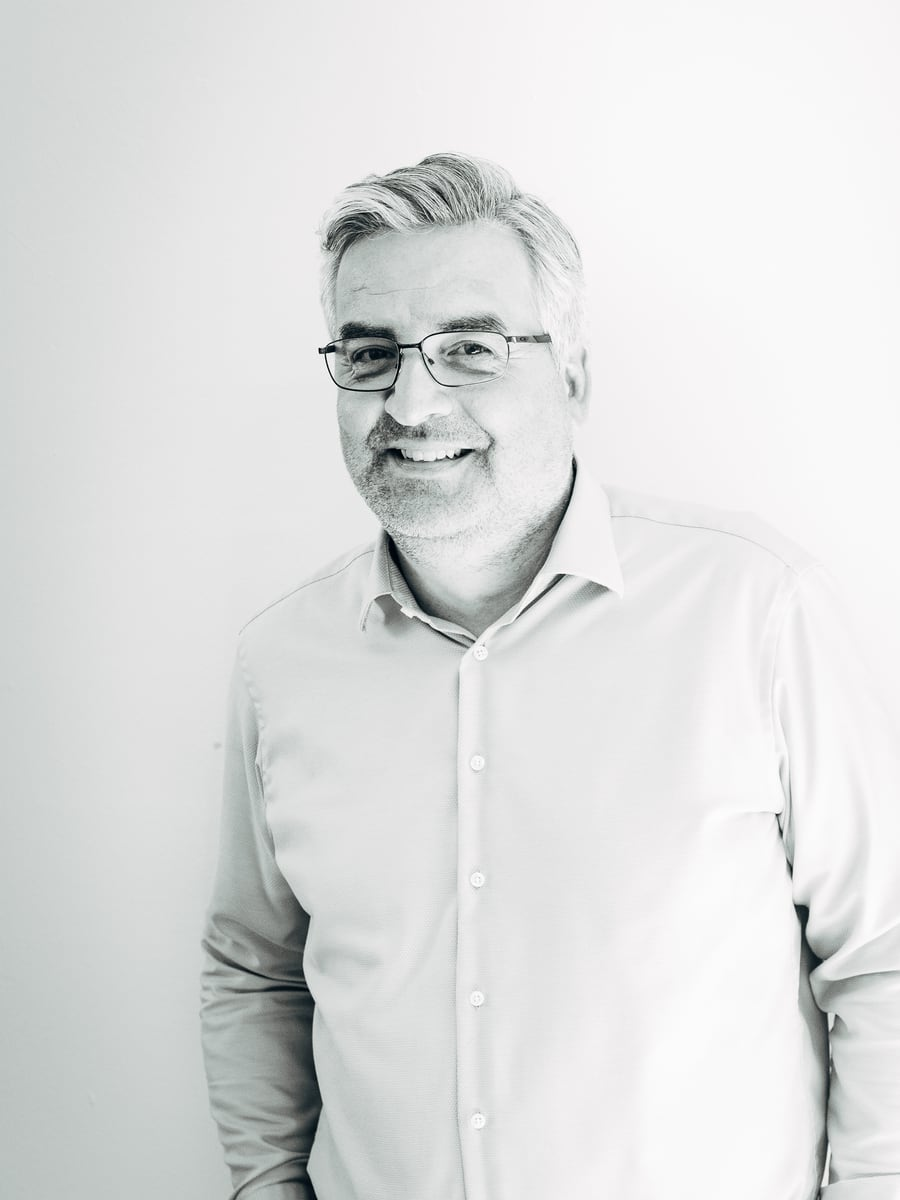
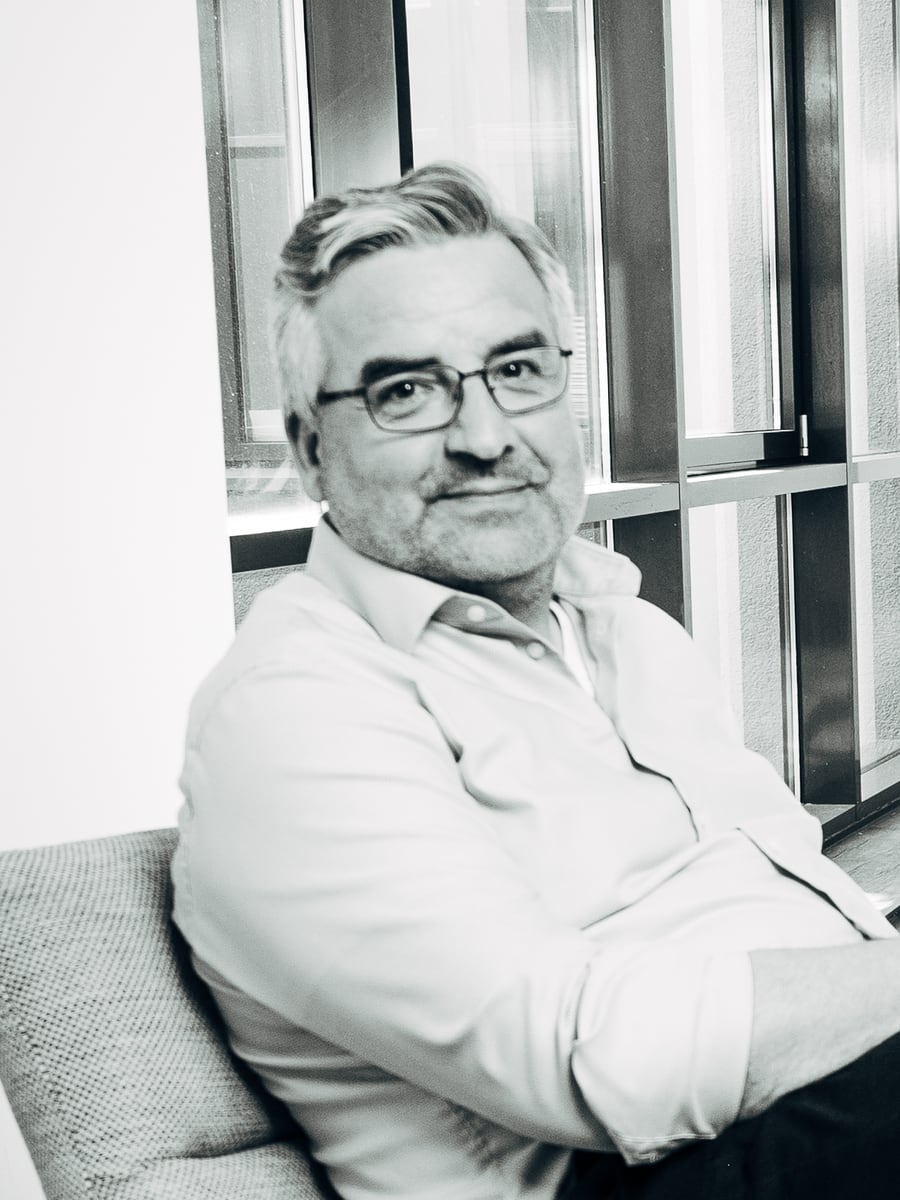
Preloader-Scrollsperre, Browser-Fixes, Team-Section + Michael-Gaul-Portrait
Preloader: Scrollen während des Intros gesperrt — man landet immer im Hero.
- Race-Fix: SmoothScroll liest data-intro und startet Lenis GESTOPPT (IntroOverlay
  konnte vor SmoothScroll mounten → window.__lenis?.stop() war ein No-Op und das
  frisch erzeugte Lenis lief weiter); Freigabe auf „banijay:introdone"
- IntroOverlay sperrt zusätzlich wheel/touchmove/Scroll-Tasten (passive:false)
- Beim Freigeben hart scrollTo(0,0) + lenis.scrollTo(0, immediate); Unmount löst
  die Sperre sauber

Browser-Kompatibilität:
- CompanyCard: fehlendes -webkit-backdrop-filter ergänzt (Safari)
- SiteHeader: Fullscreen-Menü 100vh → 100dvh (mobile Safari/Chrome schnitt die
  unteren Buttons hinter der Adressleiste ab). Übrige 100vh bewusst unangetastet —
  6 Dateien sind gepinnt und die Home hat passende -100vh-Overlaps.

Team-Section (Mobile):
- Headline-Reveal triggert auf der Mobile-Headline statt am root — auf /about
  feuerte es sonst nicht, „Unser Team" fehlte dort ganz
- aspect-ratio-Fix: das <img> trieb als Flex-Kind (min-height:auto) die
  Containerhöhe auf seine natürliche Bildproportion → aspect-ratio wurde ignoriert.
  Bild jetzt absolut positioniert → alle Kacheln exakt 4/5 (Natalis Feld war
  dadurch niedriger als die anderen)

Michael Gaul: neues Portrait (weiter Loft-Shot, Kopf ~8,5% der Bildhöhe, Person
links außen) auf Kopf ~29% rangezoomt und mittig gesetzt, 900x1200 wie die anderen.

CHANGELOG + README auf den Stand der 19./20.07.-Mobile-Strecke gebracht.

diff --git a/src/components/cinematic/algarve/IntroOverlay.tsx b/src/components/cinematic/algarve/IntroOverlay.tsx
@@ -29,6 +29,26 @@ export function IntroOverlay() {
 
   useGSAP(
     () => {
+      // HARTE SCROLL-SPERRE während des Preloaders (Wolfram 19.07.): overflow:hidden +
+      // lenis.stop() allein reichten nicht — man konnte während des Intros scrollen und die
+      // Seite ratterte im Hintergrund an die Zielposition. Darum zusätzlich die nativen
+      // Scroll-Auslöser abfangen (wheel/touchmove/Scroll-Tasten), passive:false wegen
+      // preventDefault. Wird in cleanup() wieder gelöst.
+      const preventScroll = (e: Event) => e.preventDefault();
+      const preventScrollKeys = (e: KeyboardEvent) => {
+        if (["ArrowUp", "ArrowDown", "PageUp", "PageDown", "Home", "End", " "].includes(e.key)) e.preventDefault();
+      };
+      const lockScroll = () => {
+        window.addEventListener("wheel", preventScroll, { passive: false });
+        window.addEventListener("touchmove", preventScroll, { passive: false });
+        window.addEventListener("keydown", preventScrollKeys);
+      };
+      const unlockScroll = () => {
+        window.removeEventListener("wheel", preventScroll);
+        window.removeEventListener("touchmove", preventScroll);
+        window.removeEventListener("keydown", preventScrollKeys);
+      };
+
       const finish = () => {
         (window as { __introDone?: boolean }).__introDone = true;
         window.dispatchEvent(new Event("banijay:introdone"));
@@ -41,6 +61,13 @@ export function IntroOverlay() {
         finish();
         delete document.documentElement.dataset.intro;
         document.documentElement.style.overflow = "";
+        unlockScroll();
+        // Immer im Hero starten: während der Sperre kann sich nichts verschoben haben,
+        // aber wir setzen hart auf 0, bevor Lenis wieder übernimmt.
+        window.scrollTo(0, 0);
+        (window as { __lenis?: { start: () => void; scrollTo: (t: number, o?: object) => void } }).__lenis?.scrollTo(0, {
+          immediate: true,
+        });
         (window as { __lenis?: { start: () => void } }).__lenis?.start();
         setDone(true);
         // Nach dem Entsperren neu vermessen — der gepinnte Hero (radialer Aufbau)
@@ -63,6 +90,9 @@ export function IntroOverlay() {
 
       document.documentElement.dataset.intro = "1";
       document.documentElement.style.overflow = "hidden";
+      lockScroll();
+      // Lenis kann hier noch nicht existieren (SmoothScroll mountet ggf. später) — darum
+      // liest SmoothScroll zusätzlich das data-intro-Flag und startet erst auf „introdone".
       (window as { __lenis?: { stop: () => void } }).__lenis?.stop();
       window.scrollTo(0, 0);
 
@@ -97,6 +127,14 @@ export function IntroOverlay() {
         // wird NICHT mehr hier ausgelöst, sondern erst in cleanup (onComplete), wenn das
         // Overlay komplett weg ist (Wolfram 15.07.).
         .to(bg.current, { autoAlpha: 0, duration: 0.7, ease: "power1.inOut" }, 6.15);
+
+      // Sicherheitsnetz: wird die Komponente mitten im Intro unmountet (Routenwechsel),
+      // darf die Scroll-Sperre nicht hängen bleiben.
+      return () => {
+        unlockScroll();
+        delete document.documentElement.dataset.intro;
+        document.documentElement.style.overflow = "";
+      };
     },
     { scope: root },
   );

diff --git a/src/components/cinematic/algarve/Founders.tsx b/src/components/cinematic/algarve/Founders.tsx
@@ -215,18 +215,27 @@ export function AlgarveFounders({
           gsap.set(words, { yPercent: 0 });
           return;
         }
+        // Mobile-Headline (in mTeam) vs. Desktop-Headline (in der gepinnten Bühne):
+        // - Desktop: TRIGGER = die SECTION, NICHT die Headline (Wolfram 16.07.): die
+        //   gepinnte Headline wird position:fixed → ihre eigene „top 88%"-Marke kann sie
+        //   nach dem Pin-Start nie mehr erreichen. Die Section behält ihre Layout-Position.
+        // - Mobile (Wolfram 19.07.): die Mobile-Headline ist bis zum End-Pin (bottom bottom)
+        //   im normalen Fluss. Am `root` zu triggern war auf der About-Seite unzuverlässig
+        //   (Section sitzt dort anders / Pin-Spacer) → das Reveal blieb aus, die Überschrift
+        //   fehlte. Darum triggert die Mobile-Headline auf SICH SELBST → feuert verlässlich,
+        //   sobald sie ins Bild scrollt.
+        const isMobileHead = !!mTeam.current?.contains(head);
         gsap.set(words, { yPercent: 118 });
         gsap.to(words, {
           yPercent: 0,
           ease: "power3.out",
           duration: 0.9,
           stagger: 0.12,
-          // TRIGGER = die SECTION, nicht die Headline selbst (Wolfram 16.07.): Die
-          // Desktop-Headline sitzt in der gepinnten Bühne. Ein gepinntes Element wird
-          // position:fixed — es wandert ab dem Pin-Start nicht mehr mit dem Scroll, seine
-          // eigene „top 88%"-Marke kann es danach nie mehr erreichen. Die Section
-          // dagegen behält ihre Layout-Position über die ganze Pin-Strecke.
-          scrollTrigger: { trigger: root.current, start: "top 88%", once: true },
+          scrollTrigger: {
+            trigger: isMobileHead ? head : root.current,
+            start: isMobileHead ? "top 92%" : "top 88%",
+            once: true,
+          },
         });
       });
     },
@@ -355,14 +364,19 @@ export function AlgarveFounders({
                 data-team-mtile
                 className={`flex flex-col gap-3 ${feature ? "col-span-2" : ""}`}
               >
+                {/* FIX (Wolfram 19.07.): das Bild ABSOLUT positioniert — sonst trieb es als
+                    Flex-Kind (min-height:auto) die Containerhöhe auf seine natürliche
+                    Bildproportion und die aspect-ratio wurde ignoriert (Natalis 3:4-Bild
+                    ergab so ein niedrigeres Feld als die 0.665-Portraits). Jetzt bestimmt die
+                    aspect-ratio die Höhe → ALLE Kacheln exakt 4/5, Leader nur voller Breite. */}
                 <div
-                  className="overflow-clip"
-                  style={{ aspectRatio: feature ? "16 / 10" : "4 / 5", background: "rgba(255,255,255,0.08)" }}
+                  className="relative overflow-clip"
+                  style={{ aspectRatio: "4 / 5", background: "rgba(255,255,255,0.08)" }}
                 >
                   <img
                     src={p.img}
                     alt={p.name}
-                    className="h-full w-full object-cover"
+                    className="absolute inset-0 h-full w-full object-cover"
                     style={{ filter: "grayscale(1)", objectPosition: focus(p.img) }}
                   />
                 </div>

diff --git a/src/components/layout/SiteHeader.tsx b/src/components/layout/SiteHeader.tsx
@@ -411,14 +411,18 @@ export function SiteHeader() {
       {/* Fullscreen-Overlay */}
       <div
         className="fixed inset-0 z-[200] overflow-hidden transition-[height] duration-500 ease-in-out"
-        style={{ height: open ? "100vh" : 0, background: CORAL }}
+        // 100dvh statt 100vh (Wolfram 19.07., Browser-Opt): das Fullscreen-Menü ist KEIN
+        // Scroll-Pin → dvh ist hier gefahrlos und füllt auf mobile Safari/Chrome exakt den
+        // sichtbaren Viewport (mit 100vh ragte es hinter die Adressleiste → untere Buttons
+        // abgeschnitten / Sprung beim Ein-/Ausblenden der Leiste).
+        style={{ height: open ? "100dvh" : 0, background: CORAL }}
       >
         {/* Derselbe 6vw-Rand wie die Nav-Bar (Wolfram 17.07.): so bilden Logo, Nav-Wörter,
             Social-Buttons und Podcast-Widget eine gemeinsame Grid-Spalte mit symmetrischem
             Rand links/rechts. Vorher 2vw fix → Nav-Wörter klebten rechts, Social/Podcast
             links an der Kante. Desktop bleibt 2vw. */}
         <div className="px-[2vw] max-[767px]:!px-[6vw]">
-          <div className="flex min-h-screen w-full flex-row-reverse items-start justify-between overflow-hidden pb-[3vw] pt-[9vw] max-[767px]:flex-col max-[767px]:gap-14 max-[767px]:overflow-auto max-[767px]:pb-20 max-[767px]:pt-28">
+          <div className="flex min-h-[100dvh] w-full flex-row-reverse items-start justify-between overflow-hidden pb-[3vw] pt-[9vw] max-[767px]:flex-col max-[767px]:gap-14 max-[767px]:overflow-auto max-[767px]:pb-20 max-[767px]:pt-28">
             {/* Große Links — rechtsbündig (auch auf Mobile; dort full-width, damit
                 items-end wirklich an den rechten Viewport-Rand schiebt). */}
             <nav

diff --git a/src/components/cinematic/SmoothScroll.tsx b/src/components/cinematic/SmoothScroll.tsx
@@ -25,6 +25,20 @@ export function SmoothScroll() {
     gsap.ticker.add(raf);
     gsap.ticker.lagSmoothing(0);
 
+    // INTRO-SPERRE (Wolfram 19.07.): Läuft der Preloader noch, muss Lenis GESTOPPT starten.
+    // Der IntroOverlay ruft zwar window.__lenis.stop() — mountet er aber VOR dieser
+    // Komponente, existiert __lenis dort noch nicht (No-Op) und das frische Lenis lief
+    // munter weiter: man konnte während des Intros scrollen und die Seite ratterte im
+    // Hintergrund an die Zielposition. Darum hier das data-intro-Flag lesen und erst auf
+    // „banijay:introdone" wieder freigeben.
+    const introActive = document.documentElement.dataset.intro === "1";
+    if (introActive) lenis.stop();
+    const onIntroDone = () => {
+      lenis.scrollTo(0, { immediate: true });
+      lenis.start();
+    };
+    window.addEventListener("banijay:introdone", onIntroDone);
+
     // Expliziter, SYNCHRONER ScrollTrigger.refresh() bei Breiten-Resize (Wolfram 17.07.).
     // Grund: mehrere Module sind gepinnt; beim Pinnen fixiert ScrollTrigger Breite/Position
     // des Elements auf die Messung zum Pin-Zeitpunkt. Ändert sich danach die Viewport-
@@ -47,6 +61,7 @@ export function SmoothScroll() {
 
     return () => {
       window.removeEventListener("resize", onResize);
+      window.removeEventListener("banijay:introdone", onIntroDone);
       clearTimeout(resizeTimer);
       gsap.ticker.remove(raf);
       lenis.destroy();

diff --git a/src/components/CompanyCard.tsx b/src/components/CompanyCard.tsx
@@ -37,7 +37,7 @@ export function CompanyCard({ company }: { company: Company }) {
         {/* Tier-Label */}
         <span
           className="absolute left-3 top-3 rounded-full px-2.5 py-1 text-[0.62rem] font-bold uppercase tracking-[0.12em]"
-          style={{ background: "rgba(0,0,0,0.32)", color: "#f8f7f3", backdropFilter: "blur(6px)" }}
+          style={{ background: "rgba(0,0,0,0.32)", color: "#f8f7f3", backdropFilter: "blur(6px)", WebkitBackdropFilter: "blur(6px)" }}
         >
           {company.tier}
         </span>

diff --git a/CHANGELOG.md b/CHANGELOG.md
@@ -5,6 +5,117 @@ Alle nennenswerten Änderungen an diesem Projekt. Format angelehnt an
 
 ## [redesign-v2] — Branch (Preview) — 2026-07-16
 
+### Preloader: Scroll während des Intros gesperrt (19.07.)
+- Beim Erst-Load bzw. beim Klick auf Home ratterte die Seite HINTER dem laufenden
+  Preloader schon an die Zielposition, wenn man währenddessen scrollte — man landete nicht
+  im Hero.
+- **Ursache (Race):** `IntroOverlay` rief `window.__lenis?.stop()` — mountet es aber VOR
+  `SmoothScroll`, existiert `__lenis` dort noch nicht → Optional-Chaining = No-Op, und
+  `SmoothScroll` erzeugte danach ein **laufendes** Lenis. `overflow:hidden` allein hält
+  Lenis nicht auf.
+- **Fix, drei Schichten:**
+  1. `SmoothScroll.tsx` liest beim Erzeugen das `data-intro`-Flag und startet Lenis
+     **gestoppt**; Freigabe erst auf `banijay:introdone`. Damit sind BEIDE Mount-Reihenfolgen
+     abgedeckt (mountet SmoothScroll zuerst, greift weiterhin `IntroOverlay`s `.stop()`).
+  2. `IntroOverlay.tsx` sperrt zusätzlich die nativen Auslöser: `wheel`, `touchmove` und die
+     Scroll-Tasten (↑↓, Bild auf/ab, Pos1/Ende, Leertaste) mit `passive:false` + `preventDefault`.
+  3. Beim Freigeben hart `scrollTo(0,0)` **und** `lenis.scrollTo(0, immediate)` → Start
+     garantiert im Hero. Unmount mitten im Intro löst die Sperre sauber (kein Hängenbleiben).
+- Verifiziert (Mechanismus isoliert): Lenis gestoppt + 10× Mausrad → `scrollY` bleibt **0**;
+  nach `start()` → 3940. Das echte Intro-Fenster ist im Preview-Pane nicht reproduzierbar
+  (GSAP `lagSmoothing(0)` + gedrosseltes rAF spielt die 7-s-Timeline in einem Tick ab) →
+  Endabnahme im echten Browser.
+
+### Browser-Kompatibilität: Safari-Prefix + Menü-Overlay auf dvh (19.07.)
+- `CompanyCard.tsx`: fehlendes `-webkit-backdrop-filter` ergänzt (Tier-Label-Milchglas
+  blurrte in Safari nicht). Alle übrigen `backdrop-filter`/`mask-image`-Stellen waren
+  bereits korrekt geprefixt.
+- `SiteHeader.tsx`: Fullscreen-Menü von `100vh` auf **`100dvh`** (plus `min-h-[100dvh]`).
+  Auf mobile Safari/Chrome ragte das Overlay hinter die Adressleiste → untere
+  Instagram/LinkedIn/Podcast-Buttons abgeschnitten bzw. Sprung beim Ein-/Ausblenden. Das
+  Menü ist **kein** Scroll-Pin → `dvh` ist hier gefahrlos.
+- **Bewusst NICHT angefasst:** die übrigen 55 `100vh`. 6 der Dateien sind gepinnt
+  (AlgarveHome, EditorialStickyScene, EcosystemSection, CompaniesScroller,
+  CareerRoleScroller, Founders) und die Home nutzt `-100vh`-Overlaps, die exakt mit den
+  gepinnten `100vh`-Höhen zusammenpassen. Blindes `dvh` würde die Scroll-Choreografie
+  brechen → separater, section-weiser Job mit Gerätetest.
+
+### Ökosystem: eigenständige Mobile-Ansicht (19.07.)
+- Die gepinnte Desktop-Orbit-Grafik mit Chips auf den Bahnen funktionierte auf 9:16 nicht.
+  Mobile ist jetzt ein **eigener Pfad** (per Breakpoint gegated, Desktop unverändert):
+  **symmetrisches Atom** oben (gleich lange Bahnen, Tilts gleichmäßig ~alle 30° verteilt →
+  keine dominante Achse, quadratisch zentriert), darunter die Rubriken als
+  **Akkordeonliste** mit Trennlinien; immer nur eine offen.
+- **Kein Pin/Scrub auf Mobile** — stattdessen einmaliges Reveal (`once`) plus gescrubbter
+  **Parallax-Drift** der Grafik. Vorher blendete das Reveal beim Weiterscrollen wieder aus
+  (`toggleActions … reverse`) → wirkte „geblockt", Grafik verschwand.
+- **Fix `useGSAP revertOnUpdate: true`:** ohne das blieb der beim SSR-Erstrender (isMobile
+  startet false) erzeugte Desktop-**Pin** auf Mobile aktiv (Section `fixed`, Pin-Spacer) —
+  betrifft auch echte Handys, da SSR immer als Desktop startet.
+- `page.tsx`: der `-100vh`-Statement-Overlap gilt nur noch ab `md` — mobil schimmerte sonst
+  das Statement-Wording hinter Grafik + Liste durch.
+
+### Companies-Bento Mobile: Zwischenheadline + platzsparender Filter (19.07.)
+- **Neue Mobile-Zwischenheadline „40+ / COMPANIES & / LABELS"** (Dreizeiler) über der
+  Company-Video-Section — sie ersetzt die Desktop-Swap-Phase des Ökosystems, die mobil aus ist.
+  Gestaltung 1:1 wie „About Banijay": gescrubbte Konvergenz (obere Zeile von −15vh, untere
+  von +15vh, scrub 0.8) + einblendender Sternenstaub, uppercase, `letter-spacing -0.02em`.
+- **Bug dabei gefunden:** `line-height: 112%` stand auf dem `h2` ohne eigene `font-size`
+  (Default 16px) → 18px-Zeilenboxen, die 56px-„40+"-Glyphen liefen über und überlagerten die
+  Caption. Fix: **unitless** `line-height` (skaliert mit der jeweiligen Span-Schriftgröße).
+- **Kategoriefilter mobil:** statt Chip-Buttons **unterstrichene Text-Hyperlinks** in exakt
+  **2 Zeilen** (aktiv magenta + unterstrichen) → spart Höhe. Desktop behält die Chips.
+- Mehr Abstand nach oben zur Ökosystem-Akkordeonsektion (~112 → ~177 px).
+
+### About Banijay (Marcus): Mobile-Section neu aufgebaut (19.07.)
+- **Bild** höher (104vw, Hochformat) mit der Quote unten drauf, **sticky unter der Nav**
+  (`top: 72px`, knapp unterm B-Logo) und **„zoomt zusammen"** beim Scrollen (Höhe gescrubbt
+  104vw → 62vw). Kein Pin (auf Mobile heikel), nur Sticky + Scrub.
+- **Quote-Laufweite** mobil 64 % → **90 %** → 6 statt 9 Zeilen, ragt nicht mehr so hoch ins Bild.
+- **Fakten-Akkordeon:** Karten geschlossen kompakt (**136 → 63 px** — `flex-grow` füllte
+  vorher die Höhe auf, dazu `min-height` raus), Lücke zum Bild geschlossen.
+- **Farbkodierung repariert:** `clearProps: "all"` wischte auf Mobile den von React gesetzten
+  Karten-`background` (Magenta/transparent) mit weg — deshalb fehlte die Desktop-Farblogik
+  dort komplett. Jetzt werden nur noch die GSAP-Props zurückgesetzt.
+- **Akkordeon fließt natürlich** statt fixem `overflow`-Panel: die unterste Karte wurde
+  abgeschnitten und das Modul wuchs beim Aufklappen nicht mit. (Nebeneffekt: das sticky Bild
+  hält länger, weil der Container höher ist.)
+- **„Die Banijay Story"** mobil ohne `yPercent`-Parallax (nur Desktop): der zog die weiße Box
+  erst voll herein, wenn das Akkordeon schon aus dem Screen war → man sah den Text nie ganz.
+  Jetzt normaler Block, sofort vollständig sichtbar. Desktop-Andock-`marginTop` ebenfalls auf
+  `md:` begrenzt.
+
+### Team-Section Mobile + drei Portraits (19./20.07.)
+- **Headline mittelachsig** (war linksbündig).
+- **Die drei Leader** (Marcus, Knut, Michael Laegel) mobil jeweils über die **volle Breite**
+  gestapelt, darunter durchgehend zweispaltig.
+- **aspect-ratio-Bug behoben:** der Bildcontainer ist ein Flex-Kind (`min-height:auto`), das
+  `<img>` trieb die Höhe auf seine **natürliche** Bildproportion → die `aspect-ratio` wurde
+  ignoriert und jede Kachel war so hoch wie ihr Bild (Natalis 3:4-Foto ergab ein sichtbar
+  niedrigeres Feld als die 0.665-Portraits). Fix: Bild **absolut** positioniert → jetzt sind
+  **alle** Kacheln exakt 4/5.
+- **Headline-Reveal-Trigger:** das Mobile-Reveal hing am `root` (ganze Section) und feuerte
+  auf der About-Seite nicht zuverlässig → „Unser Team" fehlte dort ganz. Triggert jetzt auf
+  der Mobile-Headline selbst.
+- **Portraits:** **Elena Kats** — Name + Titel „Director Finance Projects & Business Systems"
+  ergänzt, Ganzkörper-Sitzfoto eng auf Kopf/Oberkörper beschnitten (Kopf ~28 % wie die
+  anderen). **Natali Naso** — `lead-6.jpg` war exakt 4/5 und blieb dadurch ungecroppt (weite
+  Sitz-Komposition mit Weißraum) → jetzt eng beschnitten (900×1200, 3:4). **Michael Gaul** —
+  neues Foto (weiter Loft-Shot, Kopf nur ~8,5 % der Bildhöhe, Person links außen) auf
+  Kopf ~29 % rangezoomt und mittig gesetzt.
+
+### Performance-/Browser-Audit (19.07., nur Analyse)
+- **Videos:** 167 MB in `public/` (49 Dateien), davon nur ~21 referenziert. Laufzeit-relevant
+  sind v. a. die 12 Company-Clips (~55 MB, je 3–7 MB, Autoplay bei Sichtbarkeit) → Task #77
+  (neu enkodieren) ist der Haupthebel. **86,9 MB Videos sind gar nicht referenziert**
+  (`hero.mp4` 28,5 MB, `hero-design` 12, `kompetenz-reel` 12,8 …) → Deploy-Ballast.
+- **Bilder:** 45 MB PNG; die dicksten sind Orphans (`stage-portrait.png` 15,4 MB,
+  `preloader.png` 13,4 MB, `g10.jpeg` 11 MB). Echter Laufzeit-Posten: `career/c1–c4.png`
+  (~2 MB je) → nach JPG/WebP.
+- **Browser:** keine `:has()`/`@container`/`text-wrap` → keine bleeding-edge-Risiken;
+  `overflow: clip` (57×) ab Safari 16 ok; WebGL-Hero als Perf-Last auf Low-End-Mobile im Blick.
+  Offen: `100vh → dvh/svh` (siehe oben).
+
 ### Mobile: Menü-Overlay als einheitliches Grid + Logo-Abstand (17.07.)
 - **B/Logo oben** rückte auf Mobile von der oberen Kante ab: Nav-Bar `paddingTop`
   1.5vw (~6px) → mobil **6vw (~23px)**. Desktop unverändert. (Inline-Padding auf Klassen

diff --git a/README.md b/README.md
@@ -51,6 +51,21 @@ Hairlines zwischen den Einträgen. Die News-Page überblendet ihr Statement per 
 Career-Code-of-Conduct-Section liegt auf einer Magenta-Box, über deren Ränder driftende
 Film-Snippets ragen. Der vollständige Verlauf steht in `CHANGELOG.md`.
 
+**Mobile ist kein verkleinertes Desktop.** Drei Sektionen haben auf schmalen Viewports einen
+eigenen Aufbau (per Breakpoint gegated, Desktop bleibt unberührt): Das **Ökosystem** zeigt statt
+der gepinnten Orbit-Grafik mit Chips ein symmetrisches Atom (gleich lange Bahnen, Tilts
+gleichmäßig rundum) und darunter die Rubriken als Akkordeonliste — ohne Pin, mit einmaligem
+Reveal und gescrubbtem Parallax-Drift. Die **About-Banijay-(Marcus-)Section** stellt das
+Porträt hochformatig sticky unter die Nav, zoomt es beim Scrollen zusammen und gibt darunter
+die kompakten, farbkodierten Fakten-Akkordeons frei (Magenta/transparent wie auf Desktop);
+die „Banijay Story" steht dort ohne Parallax, damit sie vollständig im Screen liegt. Im
+**Companies-Bento** ersetzt eine eigene Zwischenheadline „40+ / Companies & / Labels" (gescrubbte
+Konvergenz + Staub, wie „About Banijay") die Desktop-Swap-Phase, und der Kategoriefilter läuft
+als zweizeilige, unterstrichene Textlinks statt als Chip-Buttons. Im **Team-Grid** stehen die drei
+Leader über die volle Breite, darunter durchgehend zweispaltig mit einheitlich 4/5-Kacheln.
+Während des **Preloaders** ist Scrollen hart gesperrt (Lenis startet gestoppt, zusätzlich
+`wheel`/`touchmove`/Scroll-Tasten abgefangen) — man landet immer im Hero.
+
 ## Stack
 
 - **Next.js 16** (App Router, Turbopack) · **React 19** · **TypeScript**
